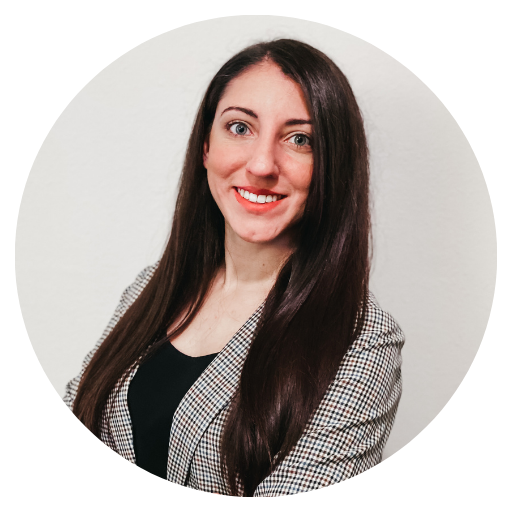
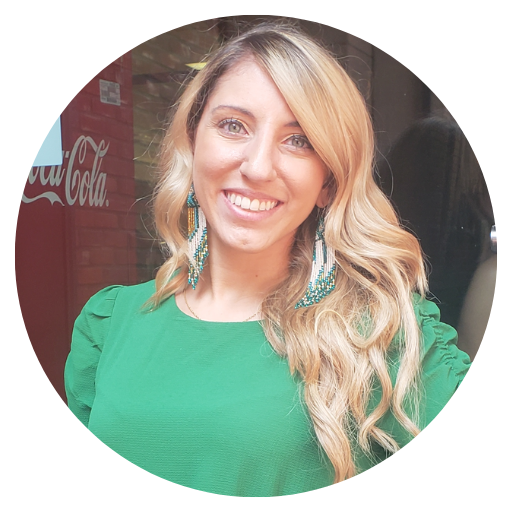
Updated theme and headshot

diff --git a/src/components/Pages/Projects/Projects.css b/src/components/Pages/Projects/Projects.css
@@ -13,29 +13,28 @@
   box-shadow: 5px 10px;
 }
 
-img{
+img {
   max-width: 100%;
   max-height: 100%;
-  display: block; 
+  display: block;
 }
 
 .card-header {
   font-size: 16.5px;
   color: #676767;
-  font-family: 'Raleway', sans-serif;
+  font-family: "Raleway", sans-serif;
   line-height: 22px !important;
   white-space: pre-line !important;
   text-decoration: none;
 }
 
 .card-header:hover {
-  color: #FA3D34;
+  color: #6e8b6a;
 }
-
 
 .card-avatar {
   font-size: 15px;
-  color: #FA3D34;
+  color: #6e8b6a;
   line-height: 22px !important;
   white-space: pre-line !important;
 }
